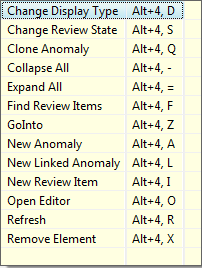
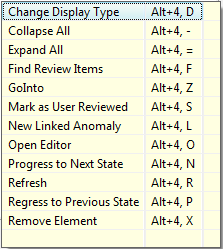
378887: Hotkeys should be added for progressing/regressing reviews/anomalies
Task-Url: https://bugs.eclipse.org/bugs/show_bug.cgi?id=378887

diff --git a/org.eclipse.mylyn.reviews.r4e.help/doc/Tasks.html b/org.eclipse.mylyn.reviews.r4e.help/doc/Tasks.html
@@ -1078,7 +1078,10 @@
 		<h4 id="Bindings">Bindings</h4>
 		<p>R4E defines some keys as accelerator keys to help the user to perform reviews. Each command starts with ALT +4 as below: </p>
 		<p>
-			<img border="0" src="DefaultKeyBindings.png"/> 
+			<img border="0" src="DefaultKeyBindings.png"/>
+		</p>
+		<p>
+			<img border="0" src="DefaultKeyBindings2.png"/>
 		</p>
 		<p>
 			<br/> 
@@ -1090,9 +1093,11 @@
 			<li>ALT +4 =&nbsp;: Expand all elements of the Review Navigator View tree. </li>
 			<li>ALT +4 F&nbsp;: Opens a dialog used with the Version Control System connector to Find new Review Items. A Project needs to be selected first before using this shortcut. </li>
 			<li>ALT +4 I&nbsp;: Add Review Item. Available from any editor View. There must be a selection in the editor to create a new Review Item. </li>
-			<li>ALT +4 L&nbsp;: Add a new Linked Anomaly to the selected Review Navigator Selection/Delta element, if any. </li>
-			<li>ALT +4 O&nbsp;: Open the default editor on the selected Review Navigator element, if any. </li>
-			<li>ALT +4 R&nbsp;: Refresh the Review Navigator View. </li>
+			<li>ALT +4 L&nbsp;: Add a new Linked Anomaly to the selected Review Navigator Selection/Delta element, if any.</li>
+			<li>ALT +4 N&nbsp;: Progress the selected element (Review or Anomaly) to its next logical state </li>
+			<li>ALT +4 O&nbsp;: Open the default editor on the selected Review Navigator element, if any</li>
+			<li>ALT +4 P&nbsp;: Regress the selected element (Review or Anomaly) to its previous logical state</li>
+			<li>ALT +4 R&nbsp;: Refresh the Review Navigator View.</li>
 			<li>ALT +4 S&nbsp;: Mark/Unmark the selected Review Navigator element as Reviewed, if any. </li>
 			<li>ALT +4 X&nbsp;: Remove (disable) the selected Review Navigator element, if any.</li>
 		</ul>

diff --git a/org.eclipse.mylyn.reviews.r4e.ui/src/org/eclipse/mylyn/reviews/r4e/ui/internal/utils/R4EUIConstants.java b/org.eclipse.mylyn.reviews.r4e.ui/src/org/eclipse/mylyn/reviews/r4e/ui/internal/utils/R4EUIConstants.java
@@ -1486,9 +1486,9 @@ public class R4EUIConstants { // $codepro.audit.disable convertClassToInterface
 	public static final String NEXT_STATE_ELEMENT_COMMAND_TOOLTIP = "Progress the element to one of its Next logical state";
 
 	/**
-	 * Field NEXT_STATE_ELEMENT_COMMAND_MNEMONIC. (value is ""P"")
+	 * Field NEXT_STATE_ELEMENT_COMMAND_MNEMONIC. (value is ""N"")
 	 */
-	public static final String NEXT_STATE_ELEMENT_COMMAND_MNEMONIC = "P";
+	public static final String NEXT_STATE_ELEMENT_COMMAND_MNEMONIC = "N";
 
 	/**
 	 * Field PREVIOUS_STATE_ELEMENT_COMMAND. (value is ""org.eclipse.mylyn.reviews.r4e.ui.commands.PreviousState"")
@@ -1511,9 +1511,9 @@ public class R4EUIConstants { // $codepro.audit.disable convertClassToInterface
 	public static final String PREVIOUS_STATE_ELEMENT_COMMAND_TOOLTIP = "Regress the element to its Previous logical State";
 
 	/**
-	 * Field PREVIOUS_STATE_ELEMENT_COMMAND_MNEMONIC. (value is ""R"")
+	 * Field PREVIOUS_STATE_ELEMENT_COMMAND_MNEMONIC. (value is ""P"")
 	 */
-	public static final String PREVIOUS_STATE_ELEMENT_COMMAND_MNEMONIC = "R";
+	public static final String PREVIOUS_STATE_ELEMENT_COMMAND_MNEMONIC = "P";
 
 	/**
 	 * Field NEW_CHILD_ELEMENT_COMMAND. (value is ""org.eclipse.mylyn.reviews.r4e.ui.commands.addChildElement"")

diff --git a/org.eclipse.mylyn.reviews.r4e.ui/src/org/eclipse/mylyn/reviews/r4e/ui/internal/commands/testers/PreviousStatePropertyTester.java b/org.eclipse.mylyn.reviews.r4e.ui/src/org/eclipse/mylyn/reviews/r4e/ui/internal/commands/testers/PreviousStatePropertyTester.java
@@ -77,7 +77,8 @@ public class PreviousStatePropertyTester extends PropertyTester {
 	private boolean testElement(IR4EUIModelElement aElement) {
 		if (aElement.isEnabled()) {
 			if (aElement instanceof R4EUIReviewExtended) {
-				if (null != ((R4EUIReviewExtended) aElement).getPreviousPhase()) {
+				if (((R4EUIReviewExtended) aElement).isOpen()
+						&& null != ((R4EUIReviewExtended) aElement).getPreviousPhase()) {
 					return true;
 				}
 			} else if (aElement instanceof R4EUIReviewBasic) {
